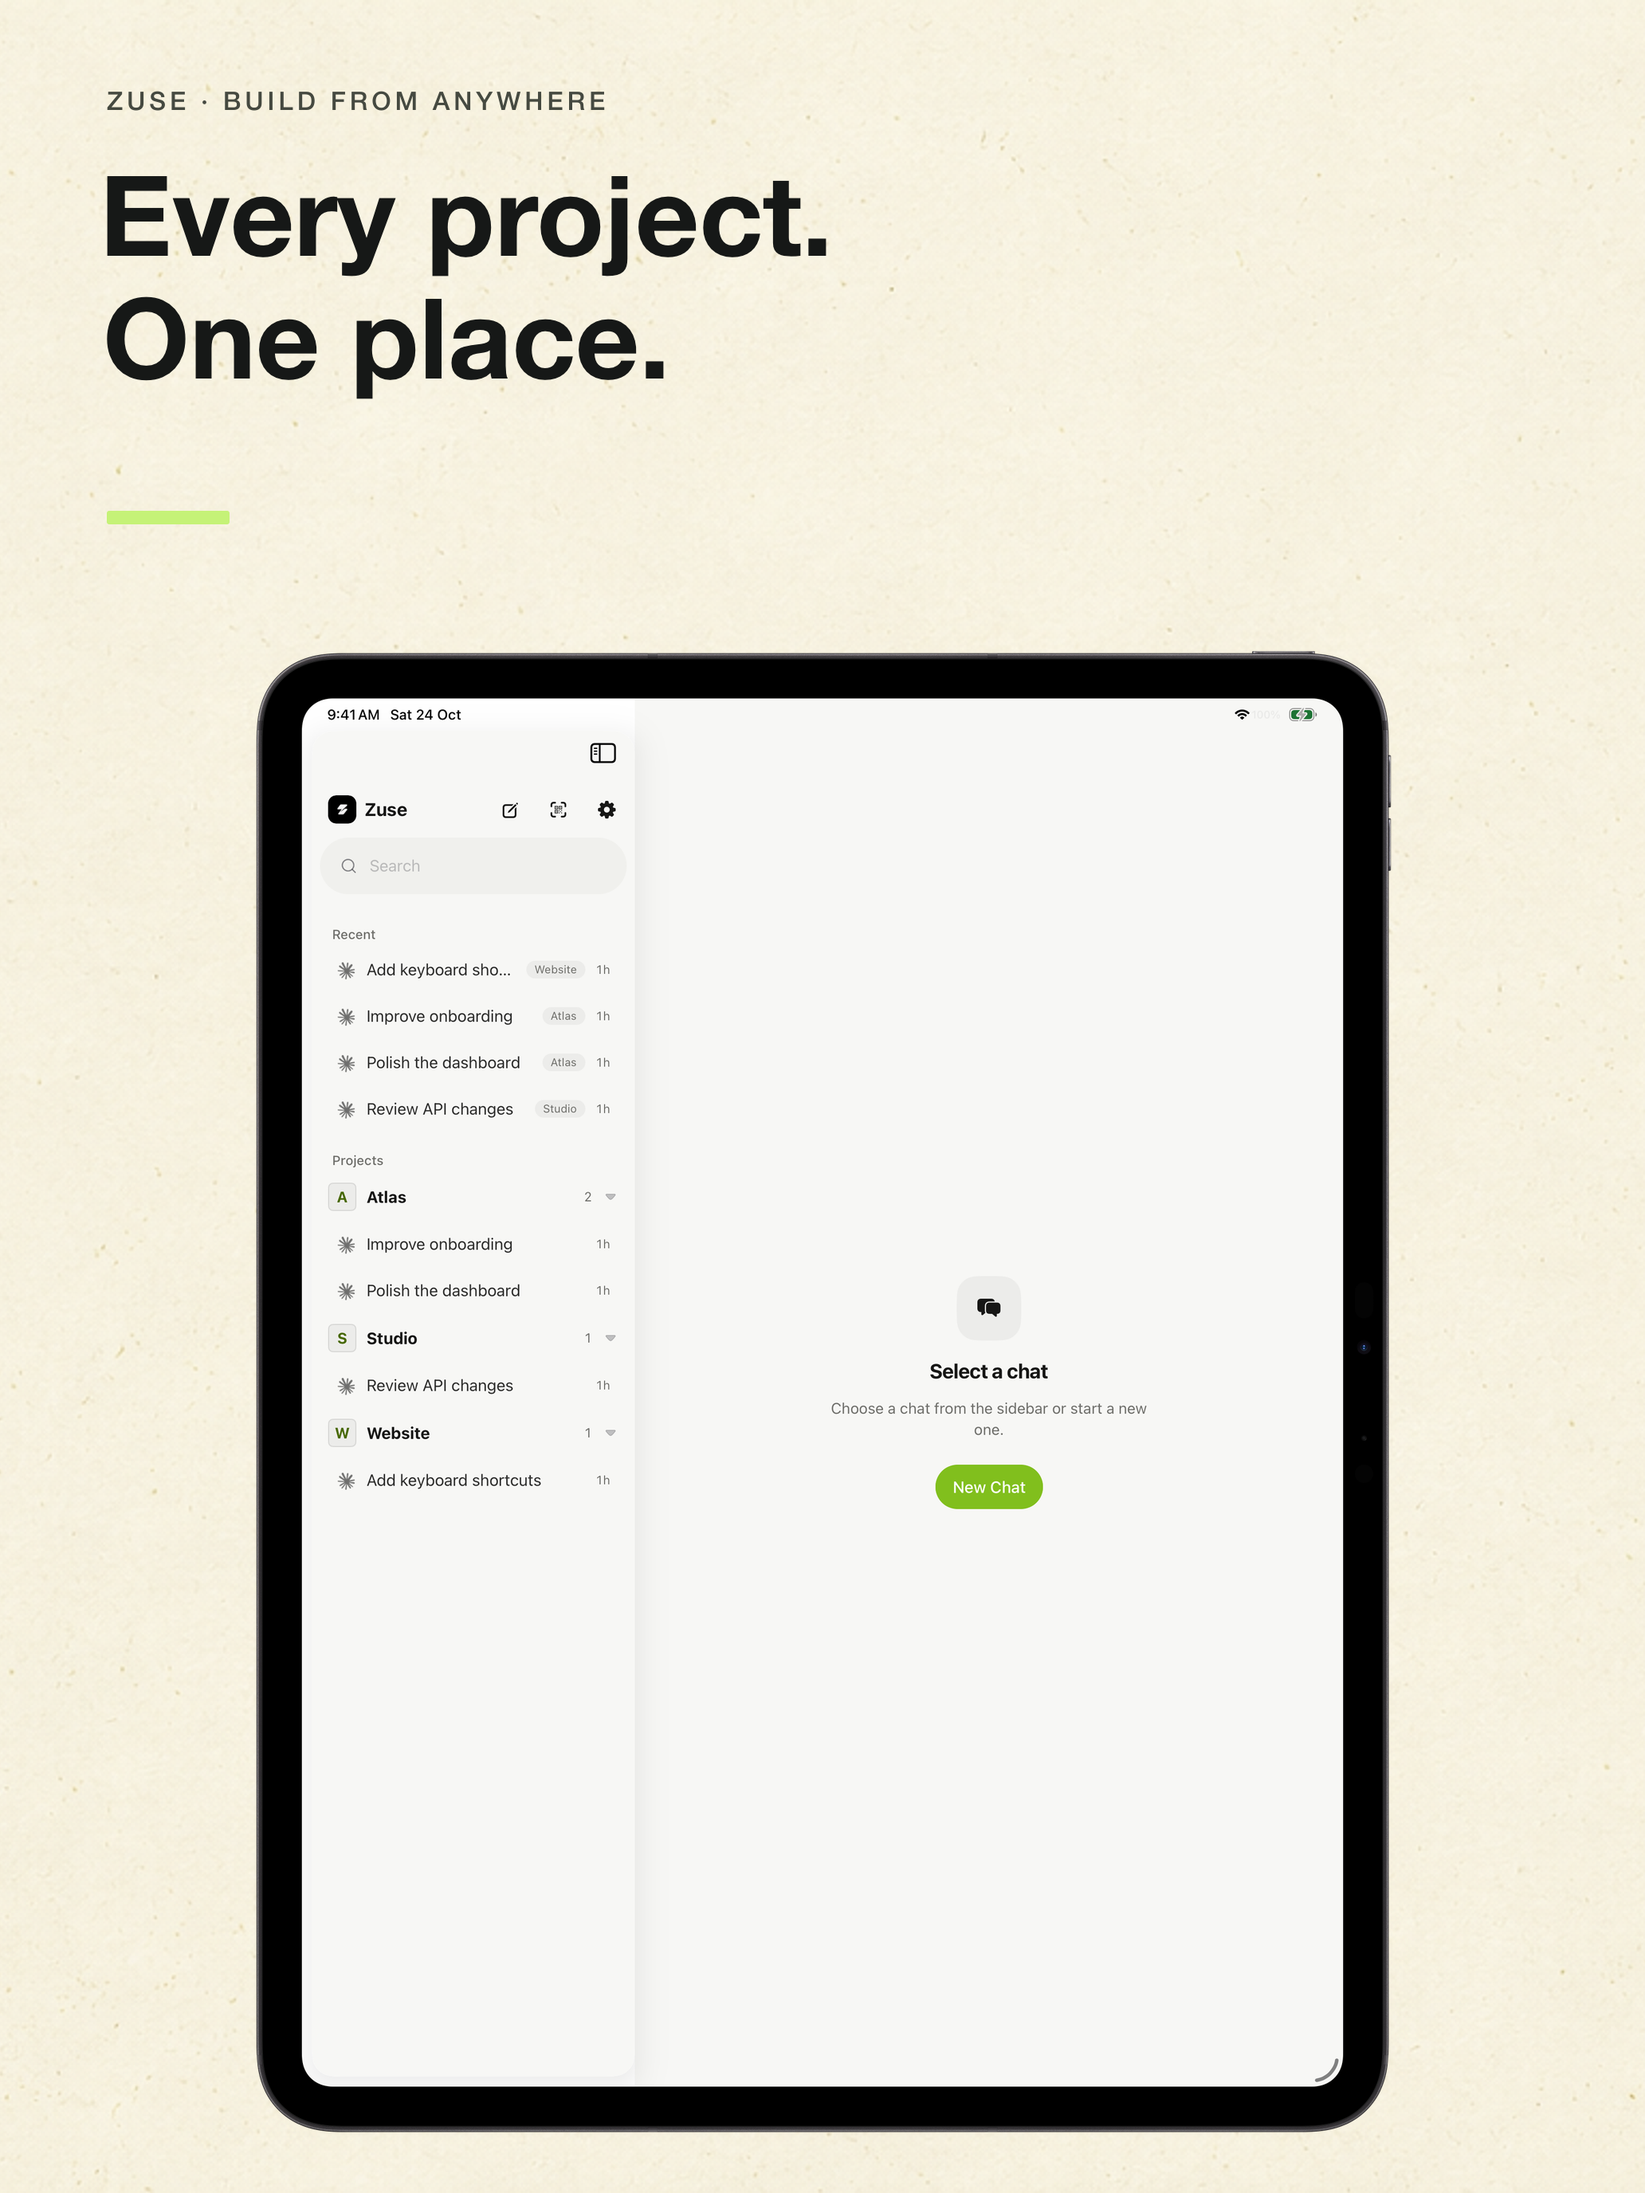
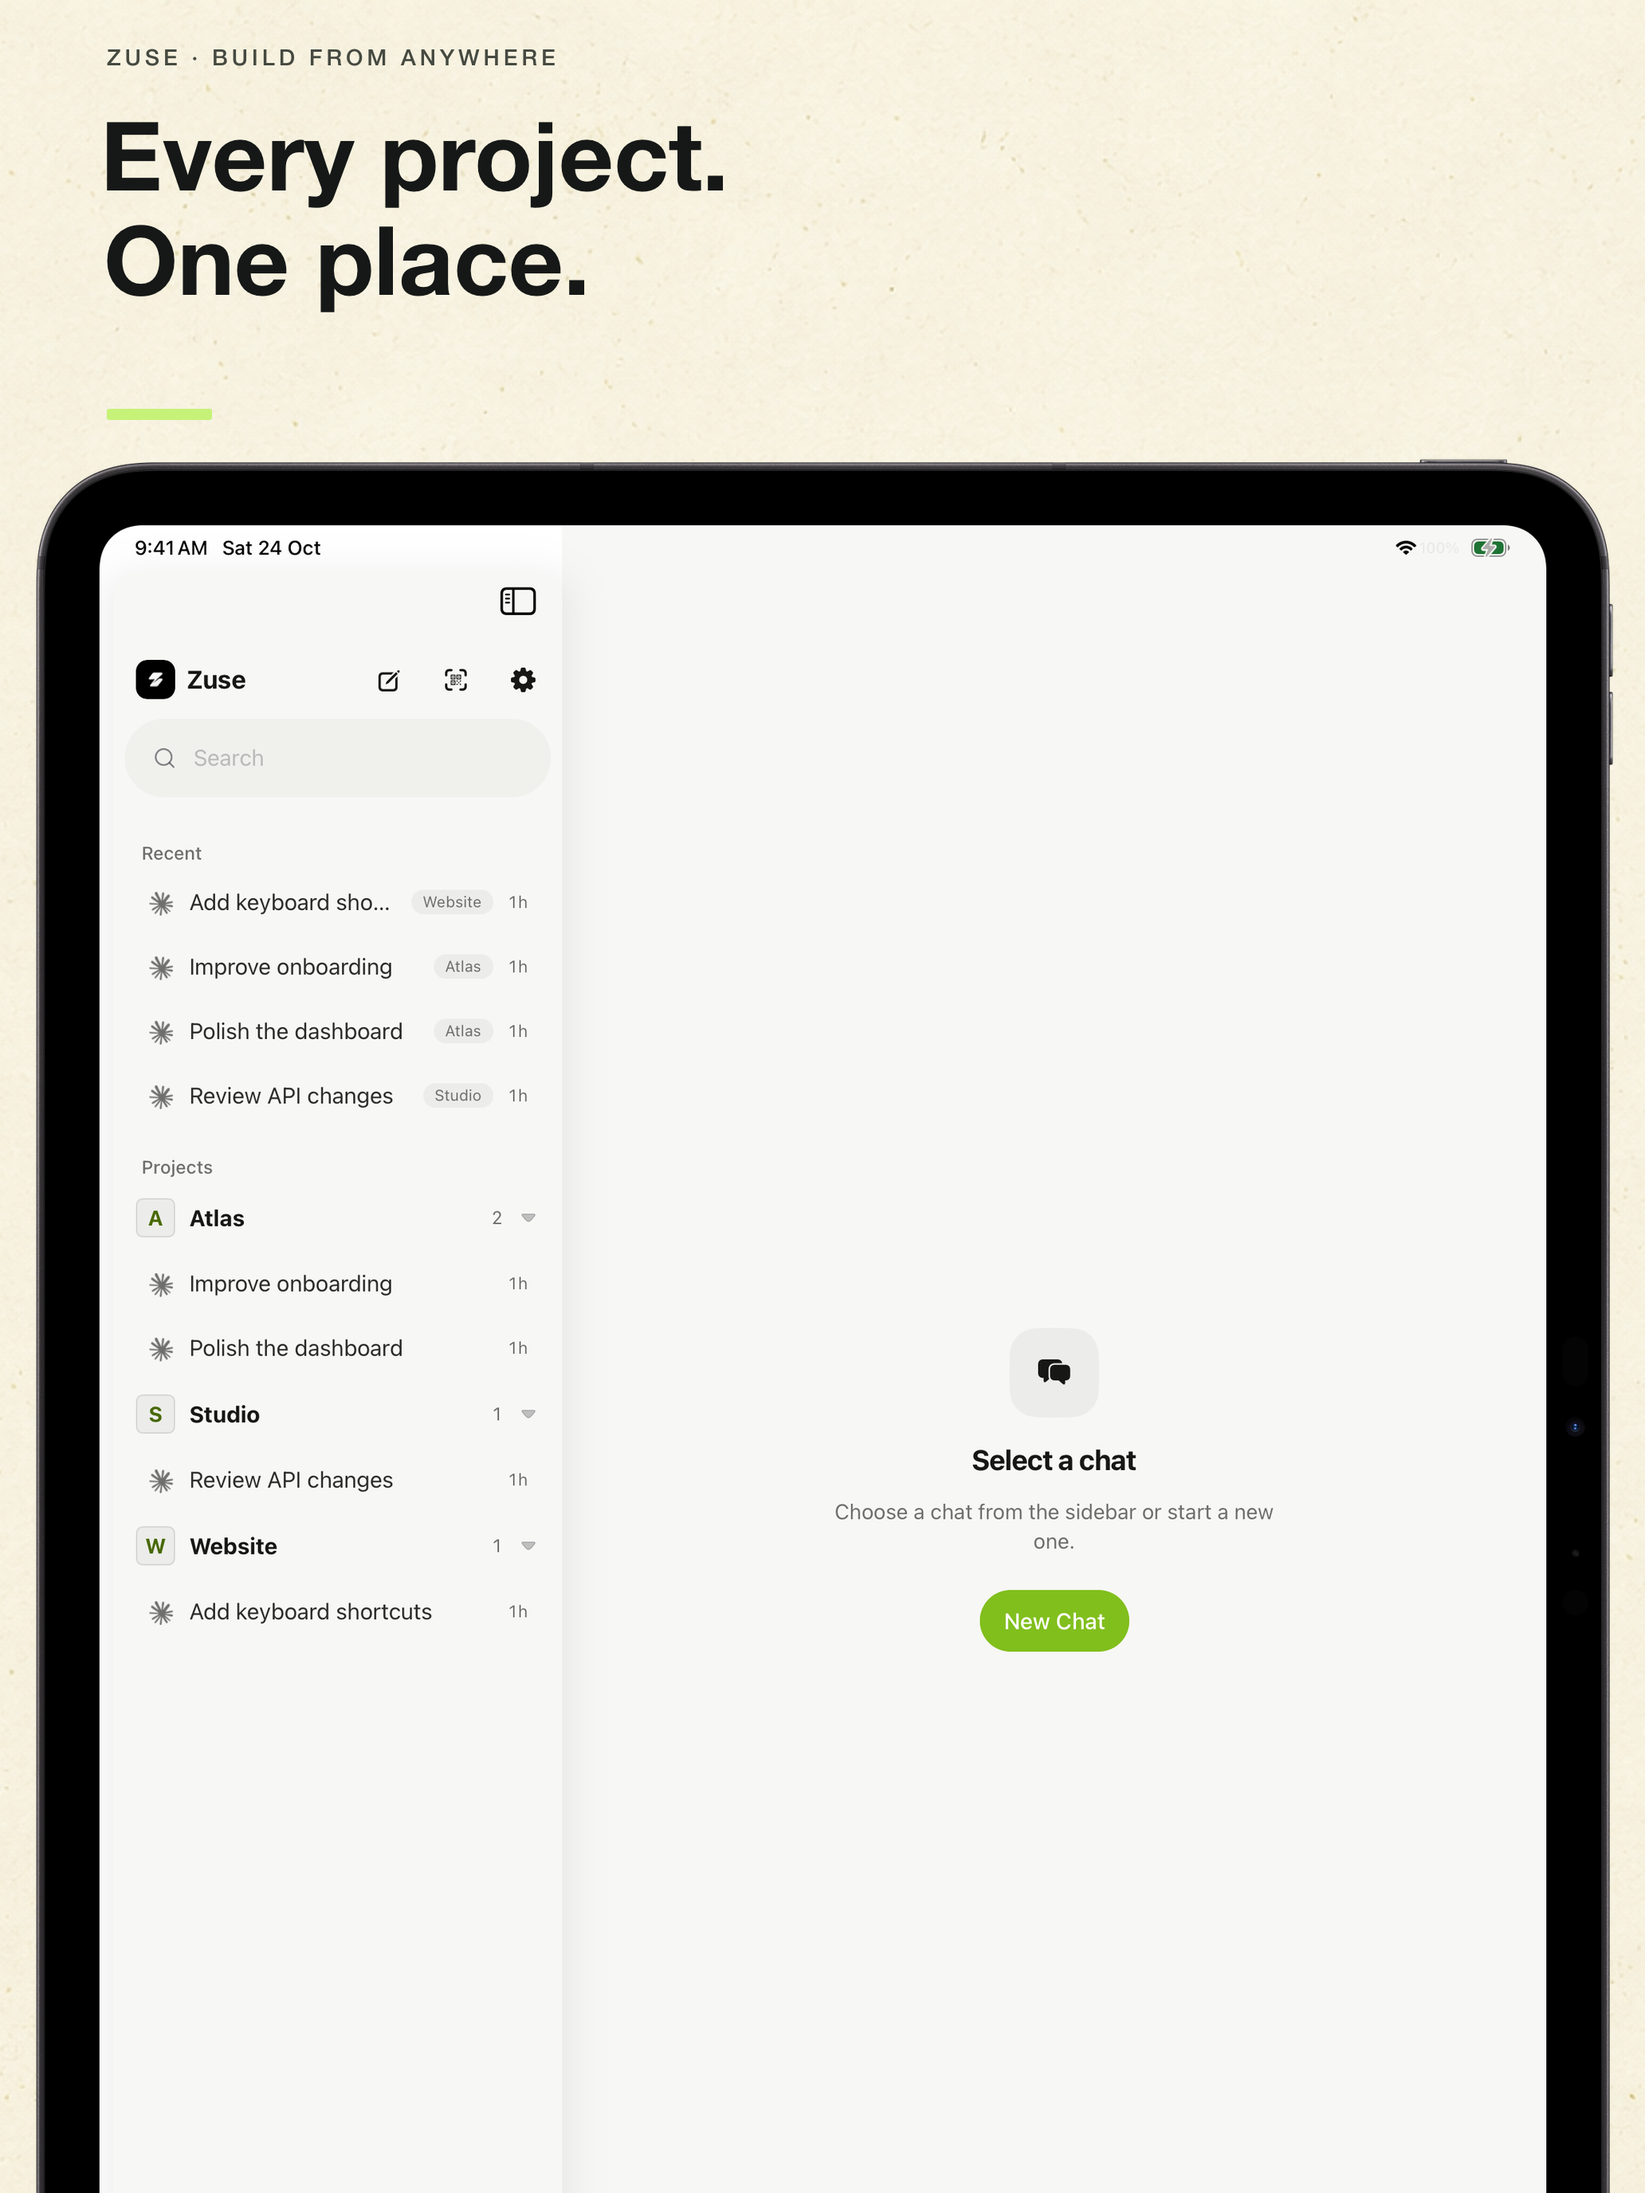
Complete 30 store images with larger iPad artwork

Changed region(s): [[0.0, 0.0312, 0.9922, 1.0], [0.5581, 0.5938, 0.6822, 0.7812], [0.2791, 0.0, 0.3101, 0.0312]]

diff --git a/internal-docs/mobile/store-assets-1.1.0.md b/internal-docs/mobile/store-assets-1.1.0.md
@@ -1,14 +1,17 @@
 # Mobile 1.1.0 store asset production checklist
 
-Verified against Apple documentation on 2026-10-24. Production is in progress: six delivery PNGs are currently rendered and validated; the full 30-image pack is not complete.
+Verified against Apple documentation on 2026-10-24. All 30 delivery PNGs are rendered and validated, using 24 simulator captures and six creative compositions.
 
 ## Current production state
 
-- Created: three iPad portrait feature cards (projects, conversation, start work), plus the iPad header, search, and universal creative masters. Files are in `apps/mobile/store-assets/1.1.0/delivery`; `manifest.json` records exact dimensions and bytes. All six are opaque PNGs.
-- Captures use the running Expo app with isolated sample projects and official Apple device bezels. Generated illustration backgrounds are stored under `source/`.
-- Xcode 27.1 is installed. Its license and first-launch setup require local administrator authentication. The iOS 27.1 simulator runtime download has started. Duo pose validation and the remaining captures depend on that setup.
-- Fixed the Uniwind asset-registry startup failure by upgrading to 1.13.0. Also removed window-derived readable padding from bounded sheets and modals; that sheet fix still needs its final simulator recapture.
-- The release has not been submitted for review or published.
+- Completed: 24 device-framed screenshot cards and six header/search/universal masters. `apps/mobile/store-assets/1.1.0/delivery/manifest.json` records exact dimensions and bytes; all 30 are opaque PNGs.
+- The iPad project portrait uses 98% of the canvas width, with an intentional bottom crop. Other iPad portraits keep the entire device visible while enlarging it and reducing headline space.
+- Captures use the Expo app with isolated sample projects and official Apple device bezels. Generated illustration backgrounds are stored under `source/`. No private chats appear in the artwork.
+- Xcode 27.1 and the iOS 27.1 simulator runtime are installed. iPad and Duo simulators were opened for native captures. Both Duo displays have portrait and landscape coverage.
+- Fixed the Uniwind asset-registry startup failure, bounded-sheet padding, iOS rotation policy, and horizontal safe-area handling. The final review screen is included in the captures.
+- Mobile validation: 520 tests across 108 files, both TypeScript projects, and applicable Biome checks passed.
+- Production build 17 was queued from source commit `a33fc7cba`, including review commit `01d03e501`. Build 16 is Apple VALID. This is not evidence of App Review approval or public release.
+- App Store Connect's public OpenAPI omitted Duo at this check; its live API explicitly supports `APP_IPHONE_DUO`. Upload state is verified separately from local image validation.
 
 ## Render commands
 
@@ -72,9 +75,9 @@ Creative assets and device-led concept variants are additional marketing coverag
 | 25 | `ipad-header.png` | 3840 × 1646 | 21:9 header; iPad with a real split-view app capture. |
 | 26 | `ipad-search.png` | 3840 × 2560 | 3:2 search; iPad with a real split-view app capture. |
 | 27 | `ipad-universal.png` | 5244 × 2950 | 16:9 universal header/search; iPad with a real split-view app capture. |
-| 28 | `duo-header.png` | 3840 × 1646 | 21:9 header; iPhone Duo with matching outer/inner app captures. |
-| 29 | `duo-search.png` | 3840 × 2560 | 3:2 search; iPhone Duo with matching outer/inner app captures. |
-| 30 | `duo-universal.png` | 5244 × 2950 | 16:9 universal header/search; iPhone Duo with matching outer/inner app captures. |
+| 28 | `duo-header.png` | 3840 × 1646 | 21:9 header; iPhone Duo inner display with a real conversation capture. |
+| 29 | `duo-search.png` | 3840 × 2560 | 3:2 search; iPhone Duo inner display with a real conversation capture. |
+| 30 | `duo-universal.png` | 5244 × 2950 | 16:9 universal header/search; iPhone Duo inner display with a real conversation capture. |
 
 ## Composition and delivery
 
@@ -86,12 +89,11 @@ Creative assets and device-led concept variants are additional marketing coverag
 - The existing `apps/mobile/assets/icon.png` is 1024 × 1024 and is already present. An icon redesign is not part of this image request.
 - Optional in-app event artwork is outside this release pack unless an actual event is being created: landscape card 1920 × 1080 to 3840 × 2160, portrait detail 1080 × 1920 to 2160 × 3840. App-preview videos are also separate, optional deliverables.
 
-## Current production state
+## Capture verification limits
 
-- Illustration drafts exist at `apps/mobile/store-assets/1.1.0/ipad-momentum.png` and `iphone-duo-building.png`.
-- Full four-scene capture sets, matching device-framed cards, landscape variants, and the six creative masters remain to be produced.
-- The current cloud capture smoke test covers onboarding launch only. It does not satisfy the four feature scenes in this checklist.
-- Keep the release in draft until the expanded pack is complete and reviewed.
+- The separate local capture app uses the same production UI with a sample-data bootstrap. It is not the signed production app; fixture data and capture hooks are not shipped.
+- Native pose and rotation controls were used for the capture surfaces. The capture instance temporarily requested portrait for the final portrait composer; this does not prove production fold-state behavior on physical hardware.
+- A physical-device Duo smoke test and Apple review are separate release checks.
 
 ## Primary sources
 
